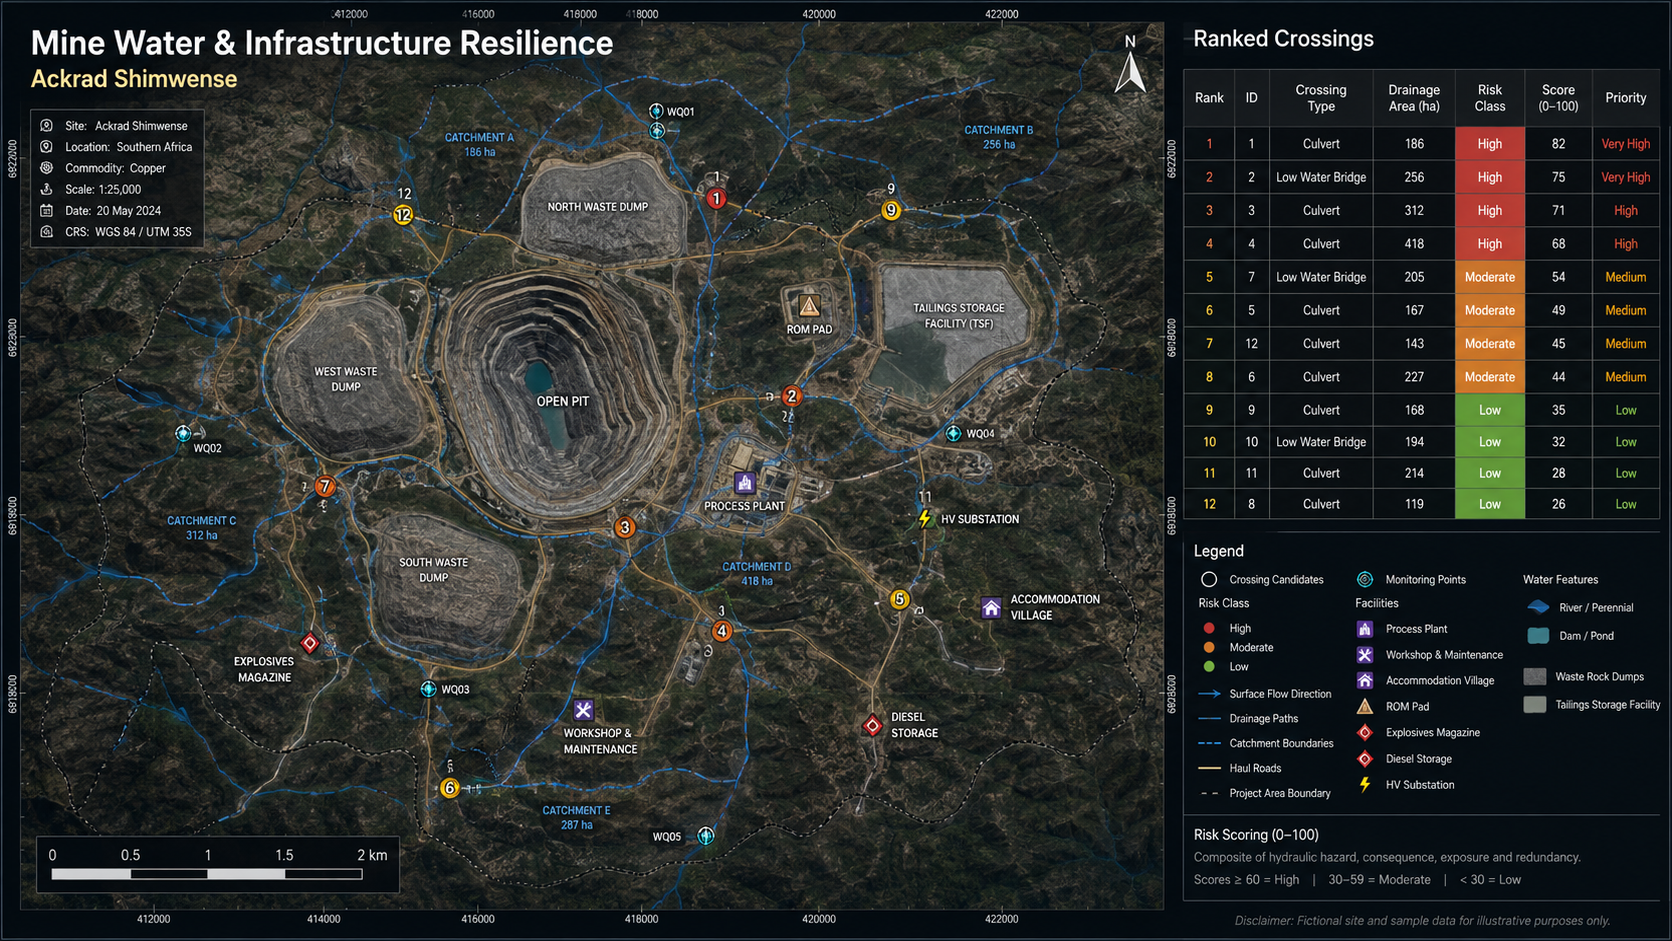
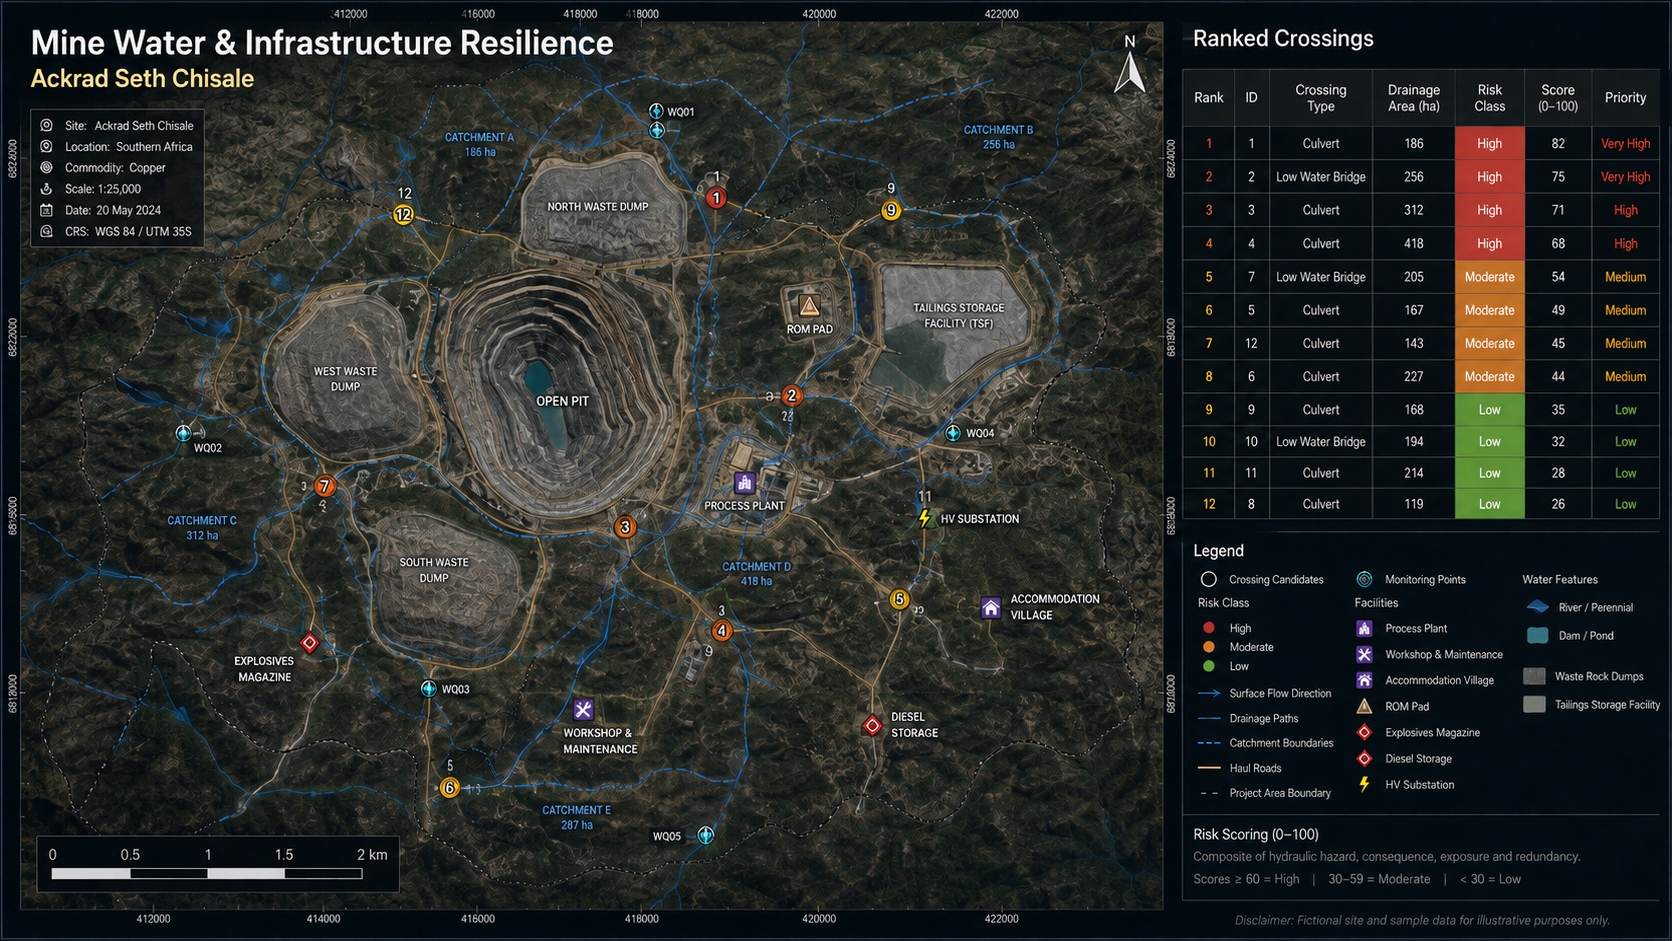
Correct author identity in project documentation

diff --git a/README.md b/README.md
@@ -1,6 +1,6 @@
 # Mine Water & Infrastructure Resilience — QGIS
 
-**Built by Ackrad Shimwense**
+**Built by Ackrad Seth Chisale**
 
 This QGIS plugin helps an engineering team move from “we have a mine boundary and several GIS layers” to a ranked, auditable list of drainage and infrastructure concerns. It combines terrain-derived drainage with haul roads, crossings, facilities, receptors and user-controlled consequence scores.
 
@@ -161,4 +161,3 @@ The repository currently passes **13 automated tests** covering acquisition beha
 ## Engineering boundary
 
 The output is a screening product. Final decisions require verified survey, mine water balance, approved rainfall, calibrated hydrologic/hydraulic models, field inspection, geotechnical and environmental context, and sign-off by the responsible engineers.
-
